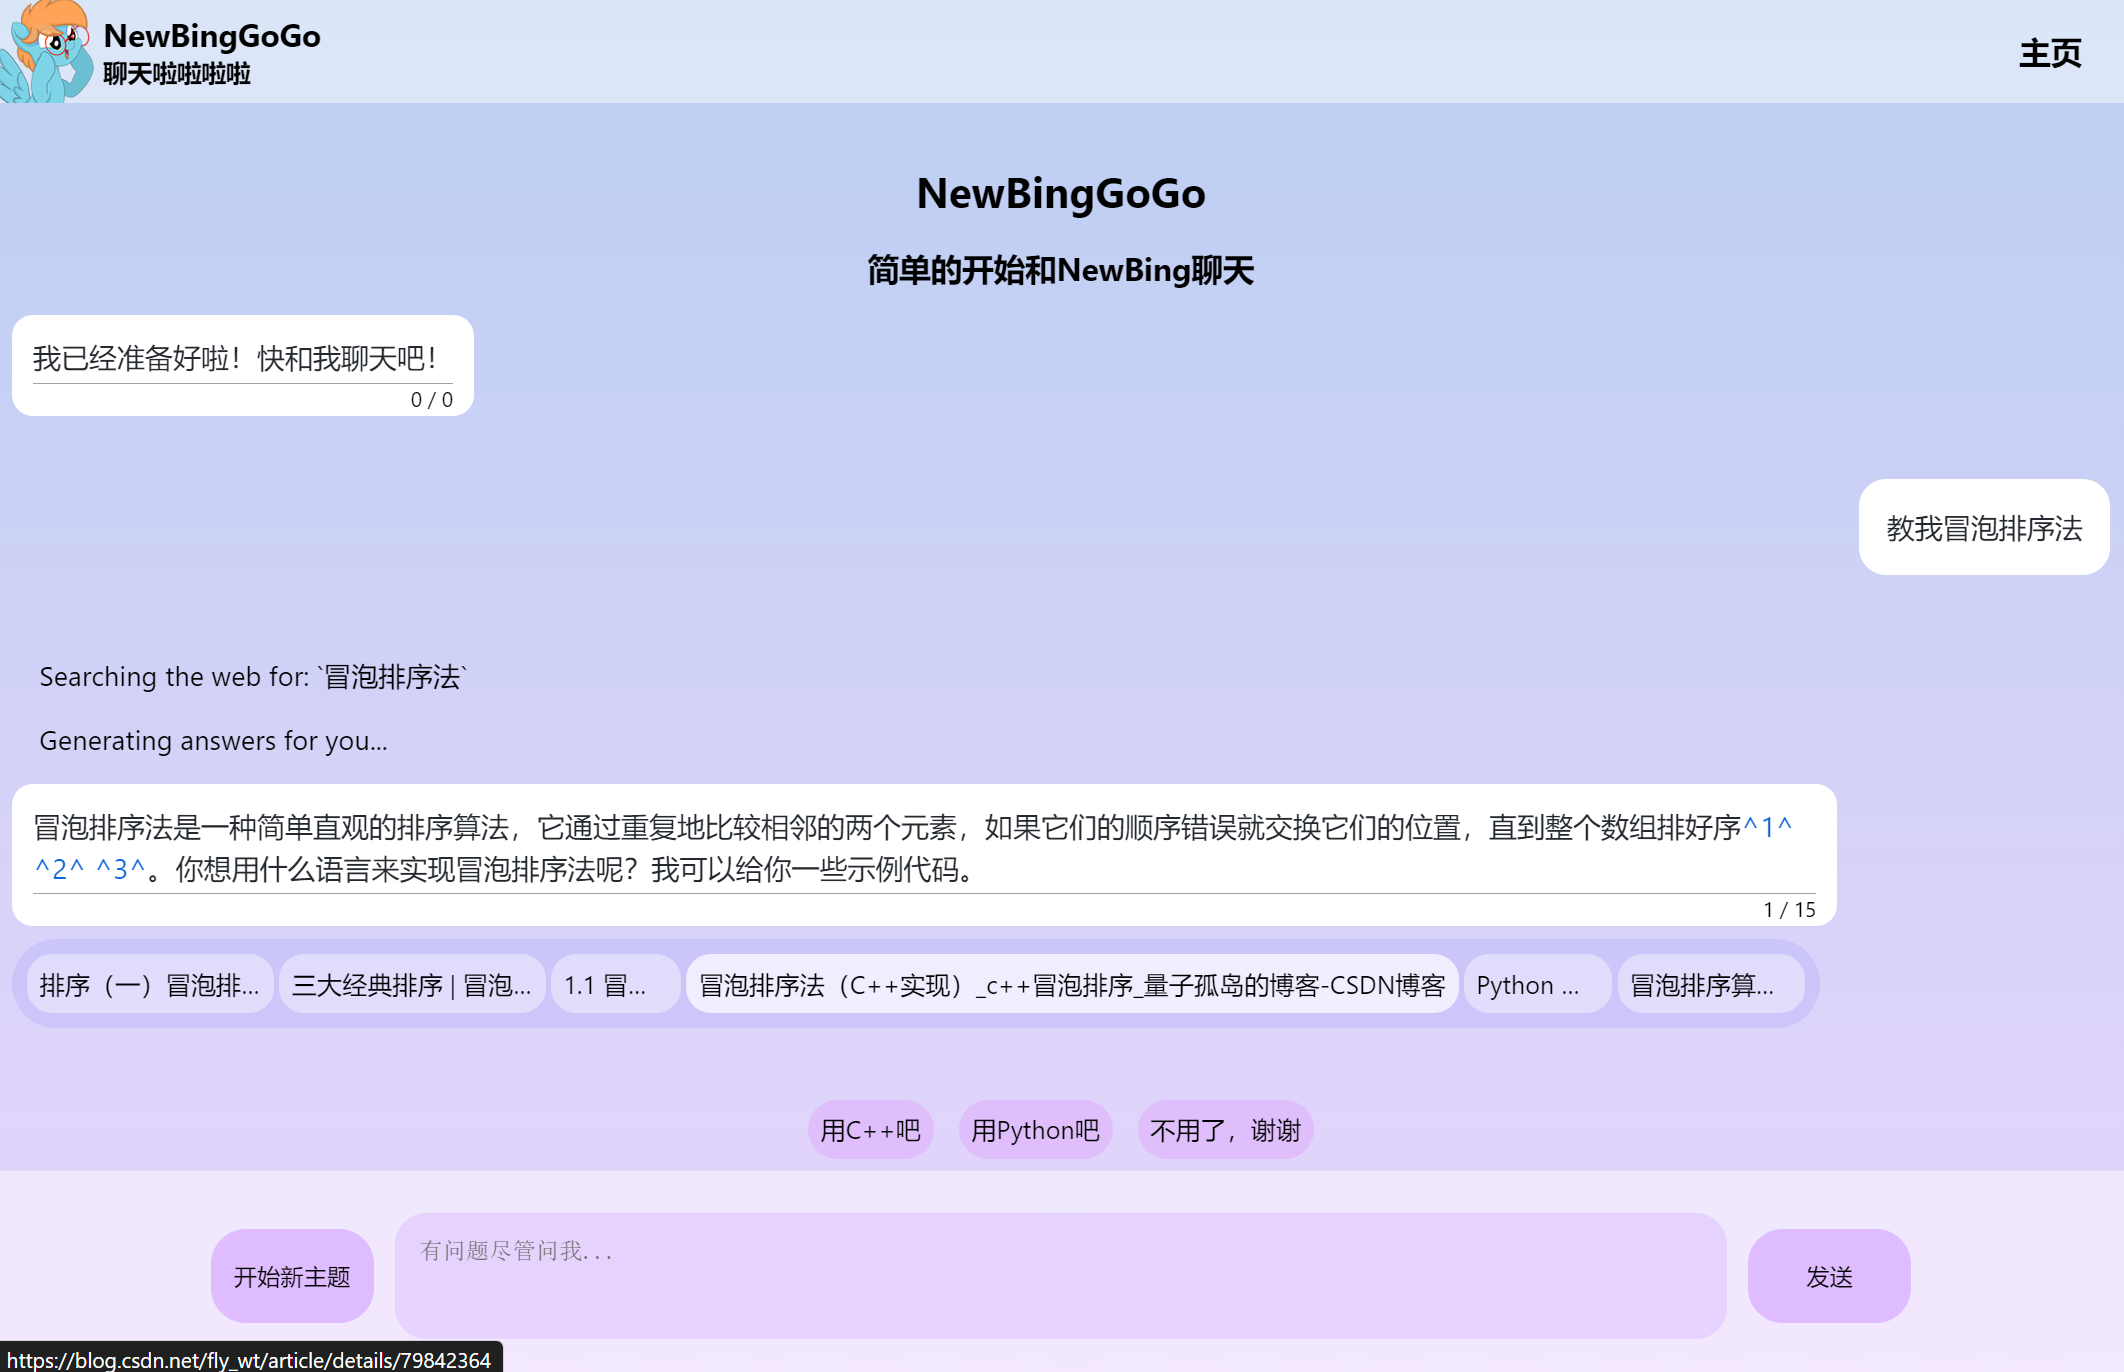
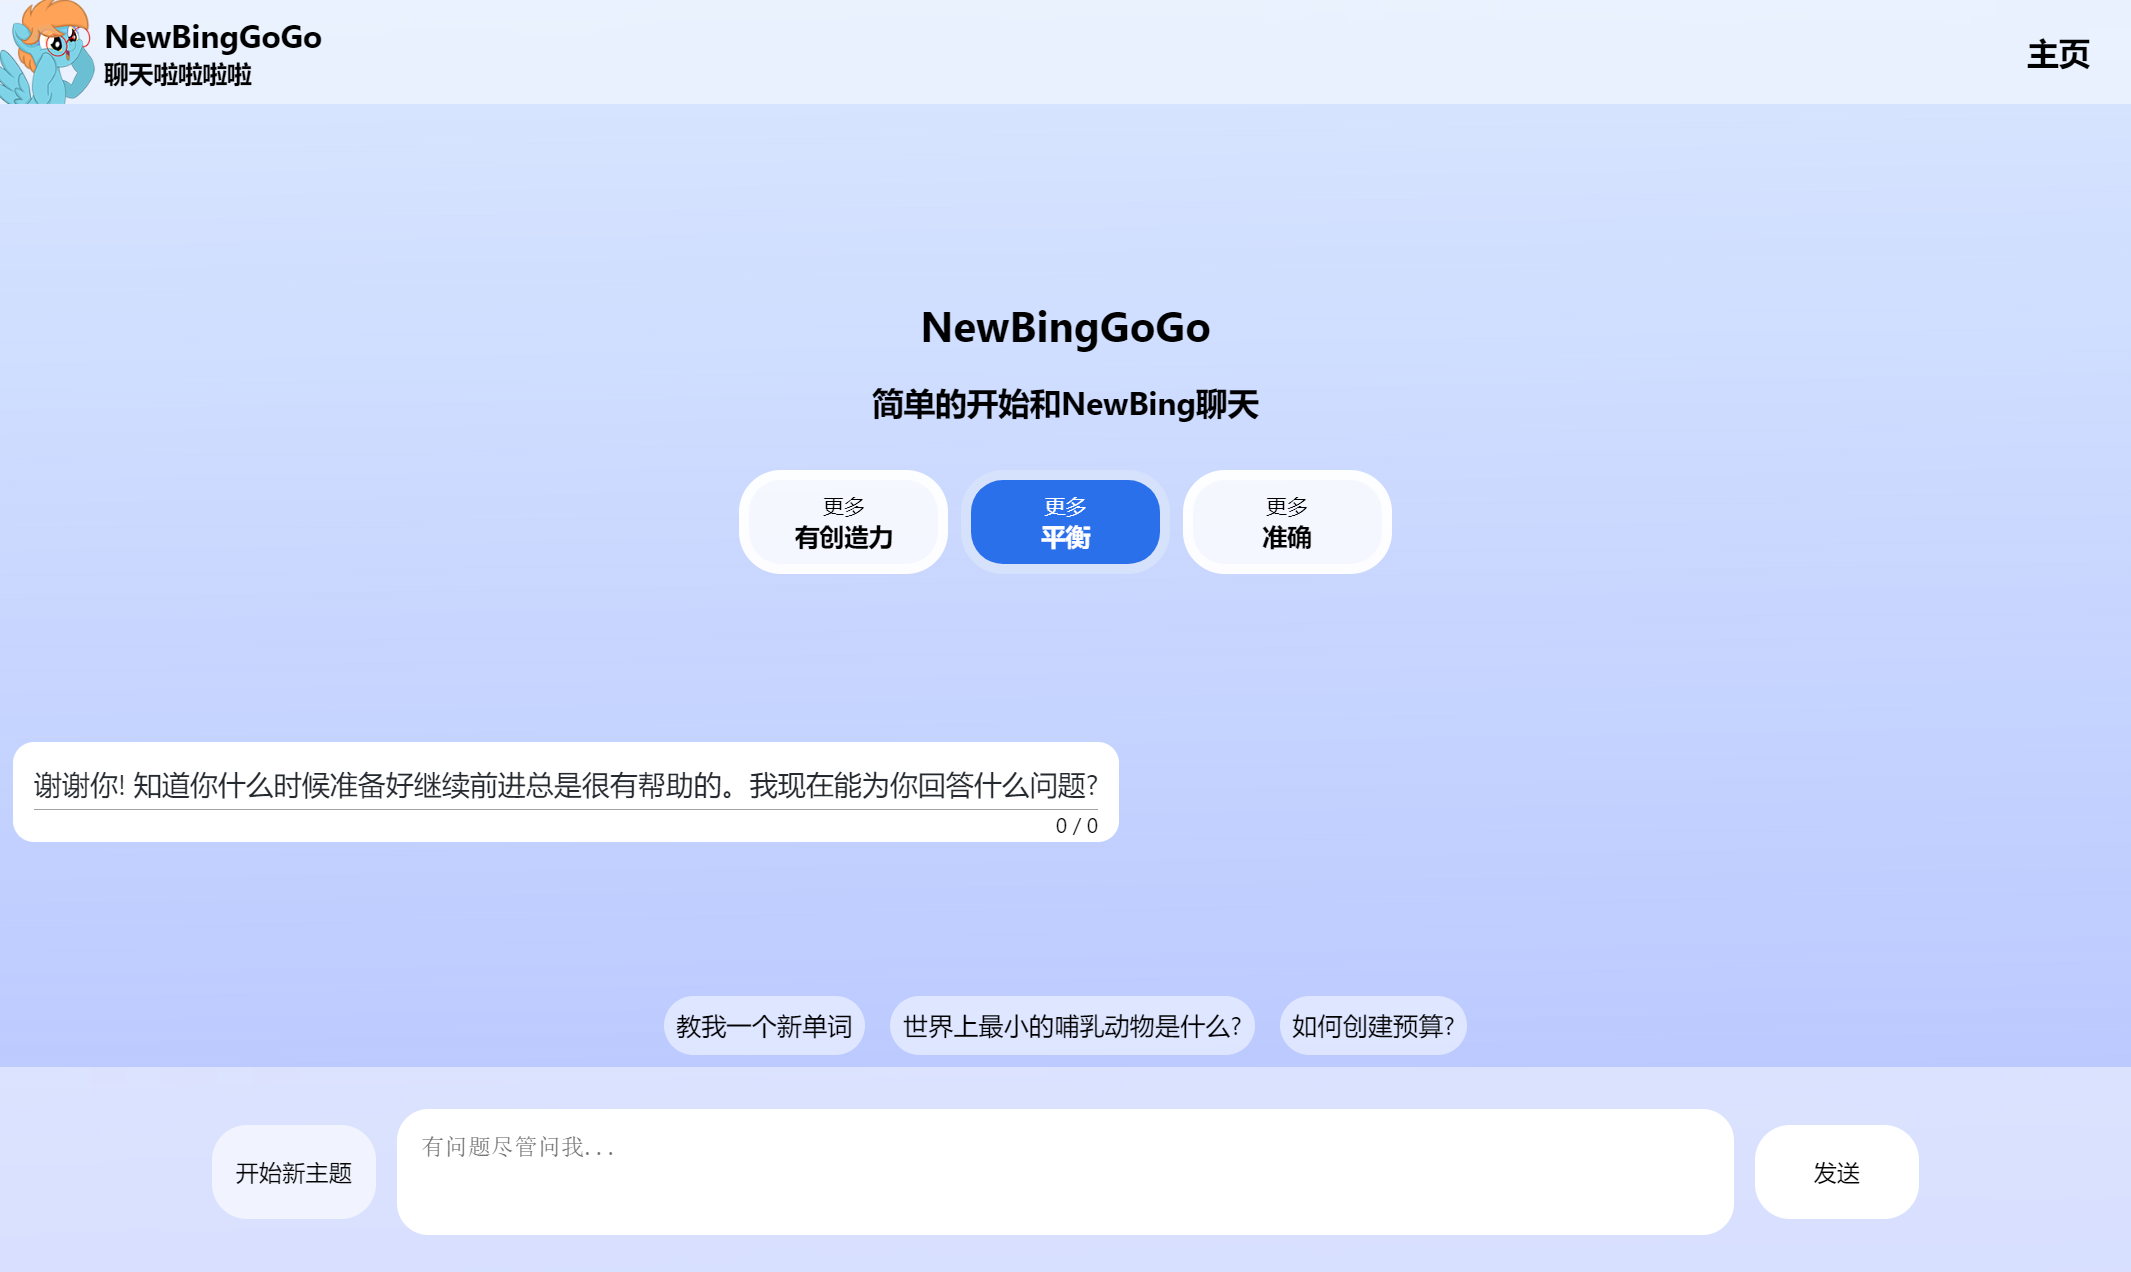
添加聊天选项，配色优化

diff --git a/NewBingGoGo/js/bingChatHub.js b/NewBingGoGo/js/bingChatHub.js
@@ -20,6 +20,44 @@ function getUuid() {
   return URL.createObjectURL(new Blob()).split('/')[3];
 }
 
+//聊天选项
+let chatTypes = {
+	//更有创造力选项
+	create:[
+		"nlu_direct_response_filter",
+		"deepleo",
+		"disable_emoji_spoken_text",
+		"responsible_ai_policy_235",
+		"enablemm",
+		"h3imaginative",
+		"hubcancel",
+		"dv3sugg"
+	],
+	//balance 平衡模式选项
+	balance:[
+		"nlu_direct_response_filter",
+		"deepleo",
+		"disable_emoji_spoken_text",
+		"responsible_ai_policy_235",
+		"enablemm",
+		"harmonyv3",
+		"hubcancel",
+		"dv3sugg",
+		"localansgnd"
+	],
+	//精准选项
+	accurate:[
+		"nlu_direct_response_filter",
+		"deepleo",
+		"disable_emoji_spoken_text",
+		"responsible_ai_policy_235",
+		"enablemm",
+		"h3precise",
+		"hubcancel",
+		"dv3sugg"
+	]
+}
+
 class SendMessageManager {
 	//(会话id，客户端id，签名id，是否是开始)
 	//(string,string,string,boolena)
@@ -29,7 +67,14 @@ class SendMessageManager {
 		this.conversationId = conversationId;
 		this.clientId = clientId;
 		this.conversationSignature = conversationSignature;
+		this.optionsSets = chatTypes.balance;
 	}
+
+	//chatTypes中的一种
+	setChatType(chatType){
+		this.optionsSets = chatType;
+	}
+
 	//发送json数据
 	sendJson(chatWebSocket, json) {
 		let go = JSON.stringify(json) + '\u001e';
@@ -77,10 +122,7 @@ class SendMessageManager {
 		let json = {
 			"arguments": [{
 				"source": "cib",
-				"optionsSets": ["nlu_direct_response_filter", "deepleo", "disable_emoji_spoken_text",
-					"responsible_ai_policy_235", "enablemm", "harmonyv3", "glprompt", "jbf",
-					"hubcancel", "dv3sugg"
-				],
+				"optionsSets": this.optionsSets,
 				"allowedMessageTypes": ["Chat", "InternalSearchQuery", "InternalSearchResult",
 					"Disengaged",
 					"InternalLoaderMessage", "RenderCardRequest", "AdsQuery", "SemanticSerp",
@@ -205,9 +247,13 @@ class ReturnMessage {
 }
 //处理聊天的类
 class Chat {
-	//(string,string,string)
-	constructor(charID, clientId, conversationSignature) {
+	//theChatType chatTypes变量中的其中一个
+	//(string,string,string,int)
+	constructor(charID, clientId, conversationSignature,theChatType) {
 		this.sendMessageManager = new SendMessageManager(charID, clientId, conversationSignature);
+		if(theChatType){
+			this.sendMessageManager.setChatType(theChatType);
+		}
 	}
 	/**
 	 * 返回
@@ -233,6 +279,7 @@ class Chat {
 				obj: new ReturnMessage(chatWebSocket,onMessage)
 			};
 		} catch (e) {
+			console.warn(e)
 			return {
 				ok: false,
 				message: "发生错误,可能是网络连接错误:" + e.message
@@ -260,7 +307,7 @@ async function getMagicUrl() {
 	 obj:Cat对象
  }
  */
-async function createChat() {
+async function createChat(theChatType) {
 	//设置cookies到魔法链接
 	let magicUrl = await getMagicUrl();
 	if (!magicUrl) {
@@ -319,9 +366,10 @@ async function createChat() {
 		return {
 			ok: true,
 			message: 'ok',
-			obj: new Chat(resjson.conversationId, resjson.clientId, resjson.conversationSignature)
+			obj: new Chat(resjson.conversationId, resjson.clientId, resjson.conversationSignature,theChatType)
 		};
 	} catch (e) {
+		console.warn(e);
 		return {
 			ok: false,
 			message: "发生错误,可能是魔法链接无法链接:" + e.message

diff --git a/NewBingGoGo/bing.css b/NewBingGoGo/bing.css
@@ -39,7 +39,17 @@
 	width: 100%;
 	height: 100%;
 	z-index: -1;
-	background: repeating-linear-gradient(0deg, rgba(222, 194, 251, 0.69) 0%, rgba(166, 193, 238, 0.78) 100%);
+	background: repeating-linear-gradient(359deg, rgb(182 196 255) 0%, rgb(207 225 255 / 78%) 100%);
+	transition: filter 1s;
+}
+#background.a{
+	filter: hue-rotate(10deg);
+}
+#background.b{
+	filter: hue-rotate(0deg);
+}
+#background.c{
+	filter: hue-rotate(-10deg);
 }
 
 /* 尾部分 */
@@ -69,7 +79,7 @@
 }
 #SearchSuggestions > a{
 	backdrop-filter: blur(10px);
-    background-color: #d400ff1a;
+    background-color: #ffffff82;
     border-radius: 2em;
     padding: 0.5em;
     font-size: 1.2em;
@@ -81,7 +91,7 @@
 }
 #SearchSuggestions > a:hover{
 	cursor: pointer;
-	background-color: #d400ff51;
+	background-color: #ffffff;
 	flex: none;
 }
 
@@ -98,12 +108,12 @@
 	width: 7em;
 	border: 0;
 	border-radius: 1.5em;
-	background-color: #dfbcff;
+	background-color: #ffffff9e;
 }
 
 #restart:hover,
 #send:hover {
-	background-color: #c17eff;
+	background-color: #ffffff;
 	cursor: pointer;
 }
 
@@ -132,7 +142,7 @@
 	border-radius: 1.5em;
 	flex: 1;
 	height: 4em;
-	background-color: #7600ff1a;
+	background-color: #ffffff;
 	padding: 1em;
 	margin: 0 1em;
 }
@@ -140,7 +150,7 @@
 
 /* 页面部分 */
 #body-top {
-	height: 20em;
+	height: 20vh;
 	width: 100%;
 }
 
@@ -148,6 +158,53 @@
 	height: 20em;
 	width: 100%;
 }
+
+/* 聊天选项部分 */
+#chatTypeDiv{
+	display: flex;
+    flex-direction: row;
+    justify-content: center;
+    align-items: center;
+    flex-wrap: nowrap;
+	margin-bottom: 7em
+}
+#chatTypeDiv>.chatTypeChose{
+	background-color: #ffffffcc;
+    border-radius: 2em;
+    width: 9em;
+    height: 4em;
+    margin: 1em 0.3em;
+    display: flex;
+    flex-direction: column;
+    align-items: center;
+    justify-content: center;
+	border: 0.5em solid #ffffffcc;
+	cursor: pointer;
+}
+#chatTypeDiv>.chatTypeChose>p{
+	margin: 0;
+	text-align: center;
+}
+#chatTypeDiv>.chatTypeChose>h3{
+	margin: 0;
+	text-align: center;
+}
+#chatTypeChoseCreate.Chose{
+	background-color: #904887;
+    color: white;
+	cursor: default;
+}
+#chatTypeChoseBalance.Chose{
+	background-color: #2870EA;
+    color: white;
+	cursor: default;
+}
+#chatTypeChoseAccurate.Chose{
+	background-color: #006880;
+    color: white;
+	cursor: default;
+}
+
 
 /* 聊天部分,在页面内 */
 .bing {
@@ -196,7 +253,7 @@
 	flex-direction: row;
 	flex-wrap: nowrap;
 	align-items: center;
-	background-color: #000fff12;
+	background-color: #ffffff57;
 	border-radius: 2em;
 	padding: 0.5em;
 }
@@ -204,7 +261,7 @@
 
 .bing>.sourceAttributions>a {
 	display: inline-block;
-	background-color: #ffffff69;
+	background-color: #ffffff73;;
 	border-radius: 1em;
 	padding: 0.5em;
 	text-overflow: ellipsis;

diff --git a/NewBingGoGo/bing.js b/NewBingGoGo/bing.js
@@ -1,5 +1,7 @@
 var chat = document.getElementById('chat');
 var searchSuggestions = document.getElementById('SearchSuggestions');
+var chatTypeDiv = document.getElementById('chatTypeDiv');
+var thisChatType;
 
 reSetStartChatMessage();
 reSetSearchSuggestions();
@@ -83,10 +85,11 @@ function isSpeakingFinish(){
 	send_button.value = '发送';
 }
 function send(text){
+	chatTypeDiv.style.opacity = 0;
 	addMyChat(text);
 	if (!talk) {
 		isAskingToMagic();
-		createChat().then((r) => {
+		createChat(thisChatType).then((r) => {
 			if (!r.ok) {
 				isSpeakingFinish();
 				addError(r.message);
@@ -139,6 +142,7 @@ restart_button.onclick = () => {
 	reSetStartChatMessage();
 	isSpeakingFinish();
 	reSetSearchSuggestions();
+	chatTypeDiv.style.opacity = 1;
 };
 
 function reSetStartChatMessage(){
@@ -173,6 +177,7 @@ function reSetSearchSuggestions(){
 
 
 
+//滚动到底部显示收聊天建议
 
 // 定义一个函数处理滚动事件
 function handleScroll() {
@@ -188,3 +193,44 @@ function handleScroll() {
 }
 // 添加滚动事件监听器
 window.addEventListener("scroll", handleScroll);
+
+
+
+
+//选择聊天类型，创造力，平衡，精准
+let backgroundDIV = document.getElementById('background');
+let chatTypeChoseCreate = document.getElementById('chatTypeChoseCreate');
+let chatTypeChoseBalance = document.getElementById('chatTypeChoseBalance');
+let chatTypeChoseAccurate = document.getElementById('chatTypeChoseAccurate');
+//默认平衡
+thisChatType = chatTypes.balance;
+chatTypeChoseCreate.onclick = ()=>{
+	if(chatTypeDiv.style.opacity == 0){
+		return;
+	}
+	chatTypeChoseCreate.classList.add('Chose');
+	chatTypeChoseBalance.classList.remove('Chose');
+	chatTypeChoseAccurate.classList.remove('Chose');
+	thisChatType = chatTypes.create;
+	backgroundDIV.className = 'a';
+}
+chatTypeChoseBalance.onclick = ()=>{
+	if(chatTypeDiv.style.opacity == 0){
+		return;
+	}
+	chatTypeChoseCreate.classList.remove('Chose');
+	chatTypeChoseBalance.classList.add('Chose');
+	chatTypeChoseAccurate.classList.remove('Chose');
+	thisChatType = chatTypes.balance;
+	backgroundDIV.className = 'b';
+}
+chatTypeChoseAccurate.onclick = ()=>{
+	if(chatTypeDiv.style.opacity == 0){
+		return;
+	}
+	chatTypeChoseCreate.classList.remove('Chose');
+	chatTypeChoseBalance.classList.remove('Chose');
+	chatTypeChoseAccurate.classList.add('Chose');
+	thisChatType = chatTypes.accurate;
+	backgroundDIV.className = 'c';
+}

diff --git a/NewBingGoGo/bing.html b/NewBingGoGo/bing.html
@@ -7,7 +7,7 @@
 		<link rel="stylesheet" href="./css/github-markdown-css.css">
 	</head>
 	<body>
-		<div id="background"></div>
+		<div id="background" class="b"></div>
 		<div id="head">
 			<div id='head-img-div'>
 				<img src="./img/nasapod128x128.png" alt="图标">
@@ -37,6 +37,20 @@
 			<div style="text-align: center;">
 				<h1>NewBingGoGo</h1>
 				<h2>简单的开始和NewBing聊天</h2>
+			</div>
+			<div id="chatTypeDiv" style="opacity: 1;">
+				<div class="chatTypeChose" id="chatTypeChoseCreate">
+					<p>更多</p>
+					<h3>有创造力</h3>
+				</div>
+				<div class="chatTypeChose Chose"  id="chatTypeChoseBalance">
+					<p>更多</p>
+					<h3>平衡</h3>
+				</div>
+				<div class="chatTypeChose"  id="chatTypeChoseAccurate">
+					<p>更多</p>
+					<h3>准确</h3>
+				</div>
 			</div>
 			<div id="chat">
 				<div class="bing">

diff --git a/README.md b/README.md
@@ -1,6 +1,7 @@
 # NewBingGoGo : 简单开始和NewBing聊天
 
 ![和newbing聊天的图片](./ReadMeImg/1.png)
+![和newbing聊天的图片](./ReadMeImg/1.1.png)
 
 
 ## 使用方法
